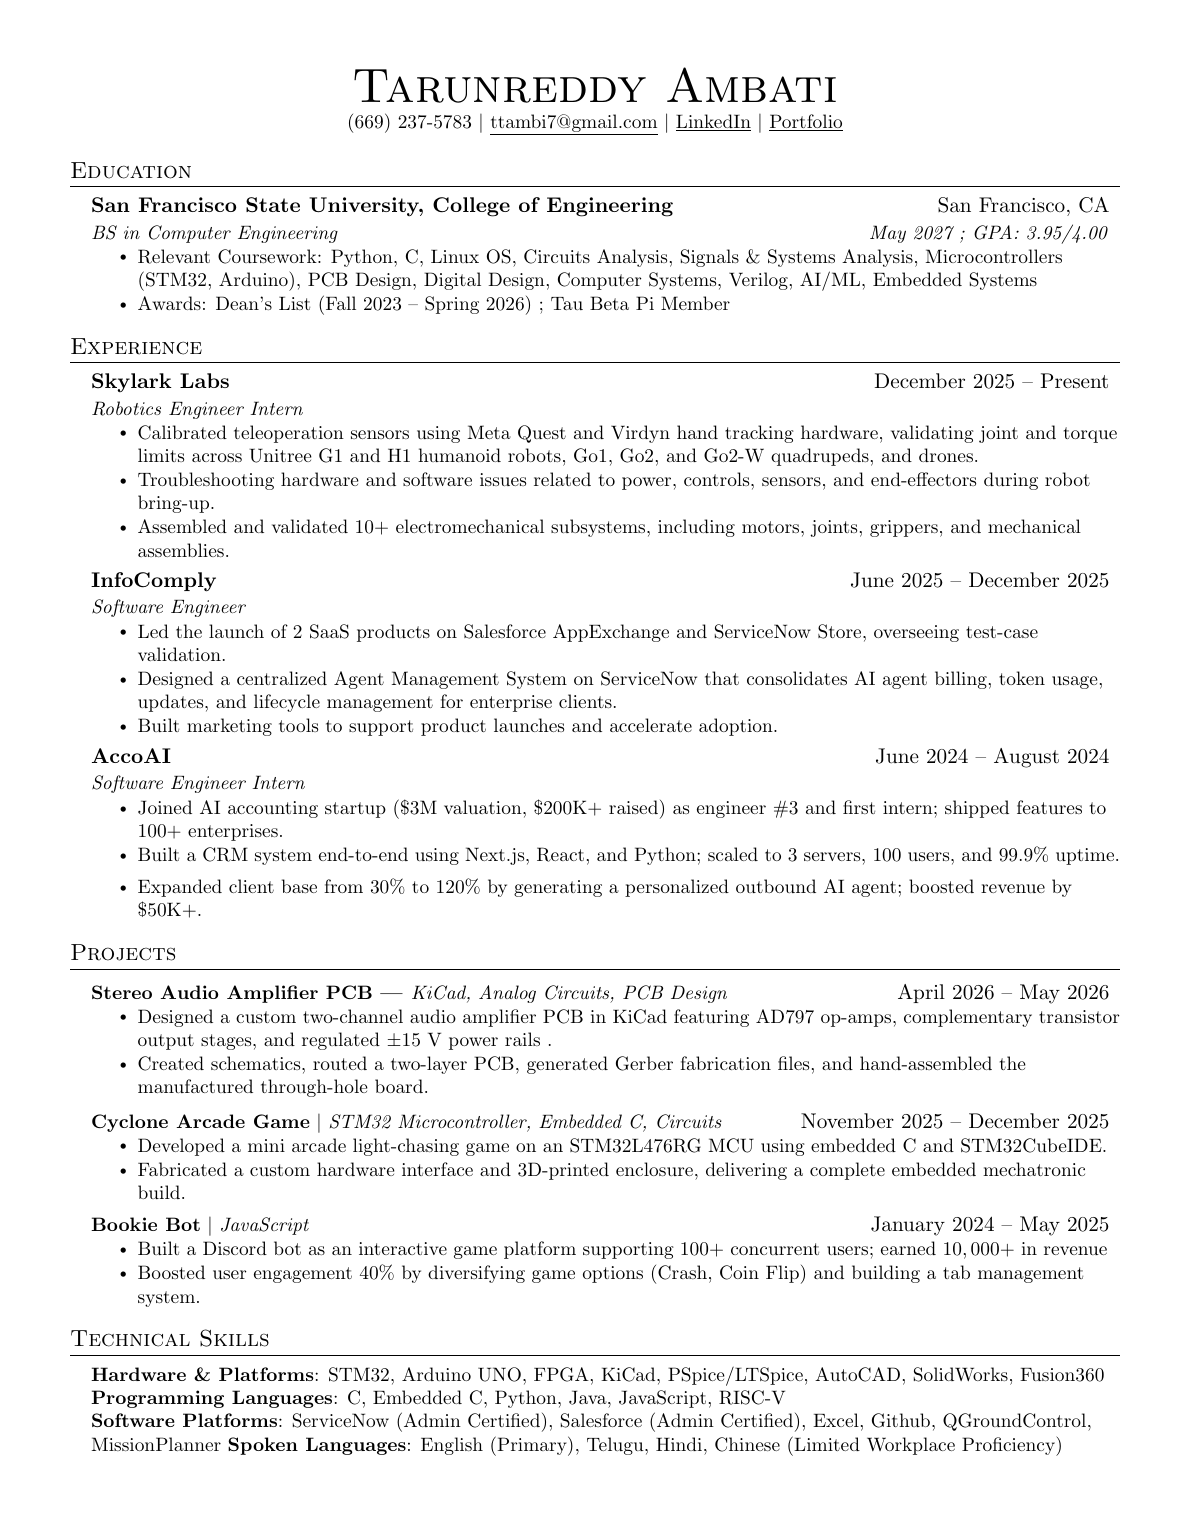
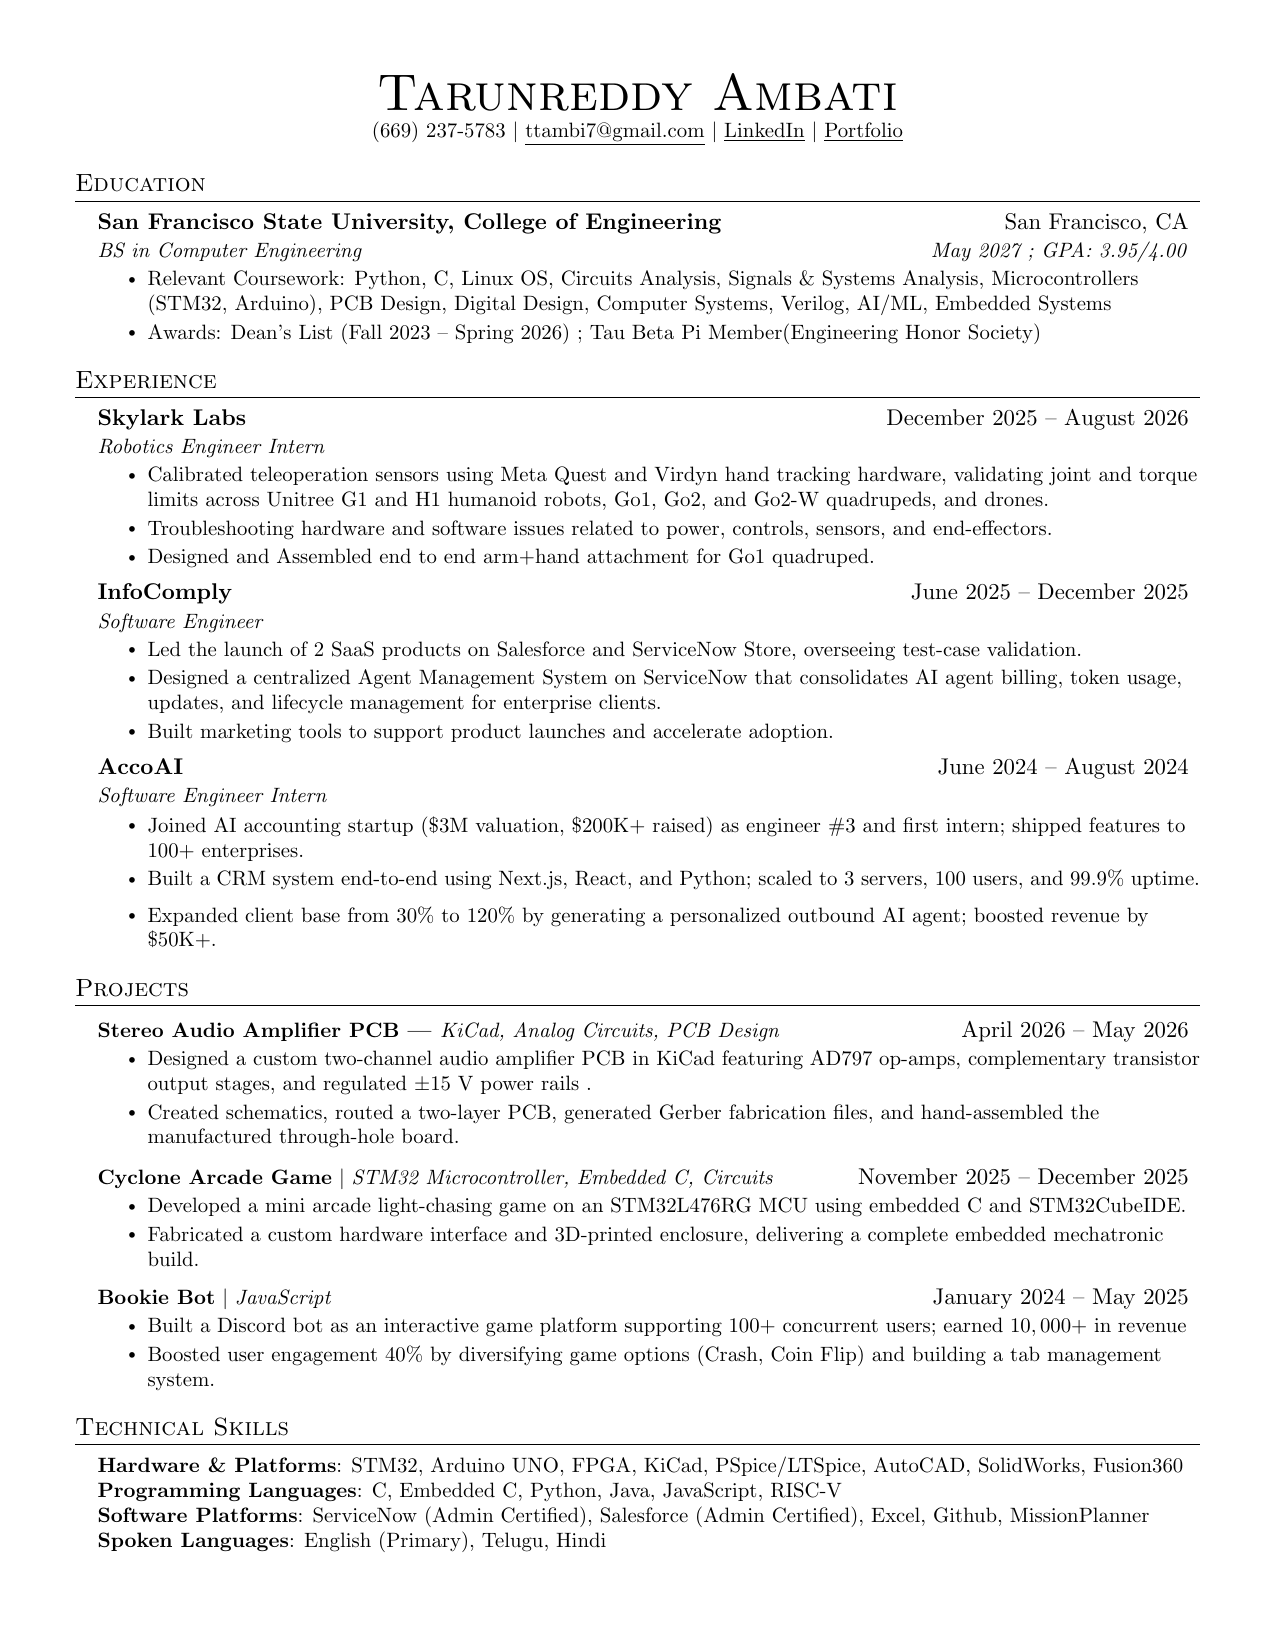
Sync portfolio with updated resume

Changed region(s): [[0.0622, 0.0935, 0.9328, 0.9662], [0.3109, 0.0312, 0.5286, 0.0935], [0.5597, 0.0312, 0.7151, 0.0935]]

diff --git a/resume.html b/resume.html
@@ -30,7 +30,7 @@
     <section class="experience-section section-shell">
       <div class="resume-section-title reveal"><p class="eyebrow">Professional experience</p><h2>Where I’ve contributed</h2></div>
       <div class="timeline">
-        <article class="timeline-item reveal"><div class="timeline-meta"><p>Dec 2025 — Present</p><span>Robotics</span></div><div><h3>Robotics Engineer</h3><h4>Skylark Labs · Full-time</h4><p>Calibrate Meta Quest and Virdyn hand-tracking sensors for teleoperation, validating joint and torque limits across Unitree G1/H1 humanoids, Go1/Go2/Go2-W quadrupeds, and drones. Troubleshoot power, controls, sensors, and end-effectors during robot bring-up, and have assembled and validated 10+ motors, joints, grippers, and other electromechanical subsystems.</p></div></article>
+        <article class="timeline-item reveal"><div class="timeline-meta"><p>Dec 2025 — Aug 2026</p><span>Robotics</span></div><div><h3>Robotics Engineer Intern</h3><h4>Skylark Labs · Internship</h4><p>Calibrated Meta Quest and Virdyn hand-tracking sensors for teleoperation, validating joint and torque limits across Unitree G1/H1 humanoids, Go1/Go2/Go2-W quadrupeds, and drones. Troubleshot hardware and software issues involving power, controls, sensors, and end-effectors, and designed and assembled an end-to-end arm-and-hand attachment for a Unitree Go1 quadruped.</p></div></article>
         <article class="timeline-item reveal"><div class="timeline-meta"><p>Jun — Dec 2025</p><span>AI · Enterprise SaaS</span></div><div><h3>Software Engineer</h3><h4>InfoComply</h4><p>Led test-case validation for two SaaS product launches on Salesforce AppExchange and the ServiceNow Store. Designed a centralized ServiceNow Agent Management System that consolidates AI-agent billing, token usage, updates, and lifecycle management for enterprise customers, and built marketing tools supporting product adoption.</p></div></article>
         <article class="timeline-item reveal"><div class="timeline-meta"><p>Jun — Aug 2024</p><span>Full stack · AI</span></div><div><h3>Software Developer / Marketing</h3><h4>AccoAI · Internship</h4><p>Joined an AI accounting startup as engineer #3 and its first intern, shipping features to 100+ enterprises. Built a CRM end-to-end with Next.js, React, and Python that scaled across three servers to 100 users with 99.9% uptime, then developed a personalized outbound AI agent that contributed more than $50K in additional revenue.</p></div></article>
       </div>

diff --git a/about.html b/about.html
@@ -35,7 +35,7 @@
       <div class="about-copy reveal">
         <h2>A little more about me</h2>
         <p>I’m a Computer Engineering student at San Francisco State University with a 3.9 GPA and Dean’s List recognition. My work spans robotics, embedded systems, and production software.</p>
-        <p>At Skylark Labs, I work on robotic system integration, coding, teleoperation, and testing across humanoid robots, quadrupeds, drones, robotic arms, and grippers. Previously, I helped launch enterprise AI products at InfoComply and shipped full-stack systems at AccoAI.</p>
+        <p>At Skylark Labs, I worked on robotic system integration, teleoperation, and testing across humanoid robots, quadrupeds, and drones. I also designed and assembled an end-to-end arm-and-hand attachment for a Unitree Go1 quadruped. Previously, I helped launch enterprise AI products at InfoComply and shipped full-stack systems at AccoAI.</p>
         <p>Across both worlds, the common thread is curiosity. I care about clear logic, responsive experiences, and learning by making.</p>
         <a class="button button-primary" href="index.html#projects">See what I’ve built <span aria-hidden="true">→</span></a>
       </div>
@@ -45,7 +45,7 @@
       <div class="skill-columns">
         <div><span>01</span><h3>Languages</h3><p>C · Embedded C · Python · Java · JavaScript · RISC-V</p></div>
         <div><span>02</span><h3>Hardware &amp; Platforms</h3><p>STM32 · Arduino UNO · FPGA · KiCad · PSpice/LTSpice · AutoCAD · SolidWorks · Fusion 360</p></div>
-        <div><span>03</span><h3>Software</h3><p>ServiceNow · Salesforce · Excel · GitHub · QGroundControl · Mission Planner</p></div>
+        <div><span>03</span><h3>Software</h3><p>ServiceNow · Salesforce · Excel · GitHub · Mission Planner</p></div>
       </div>
     </section>
     <section class="contact-banner section-shell reveal"><p class="eyebrow">Keep exploring</p><h2>See the full story.</h2><p>Explore my professional experience, education, and technical background.</p><a class="button button-light" href="resume.html">View my experience <span aria-hidden="true">→</span></a></section>
